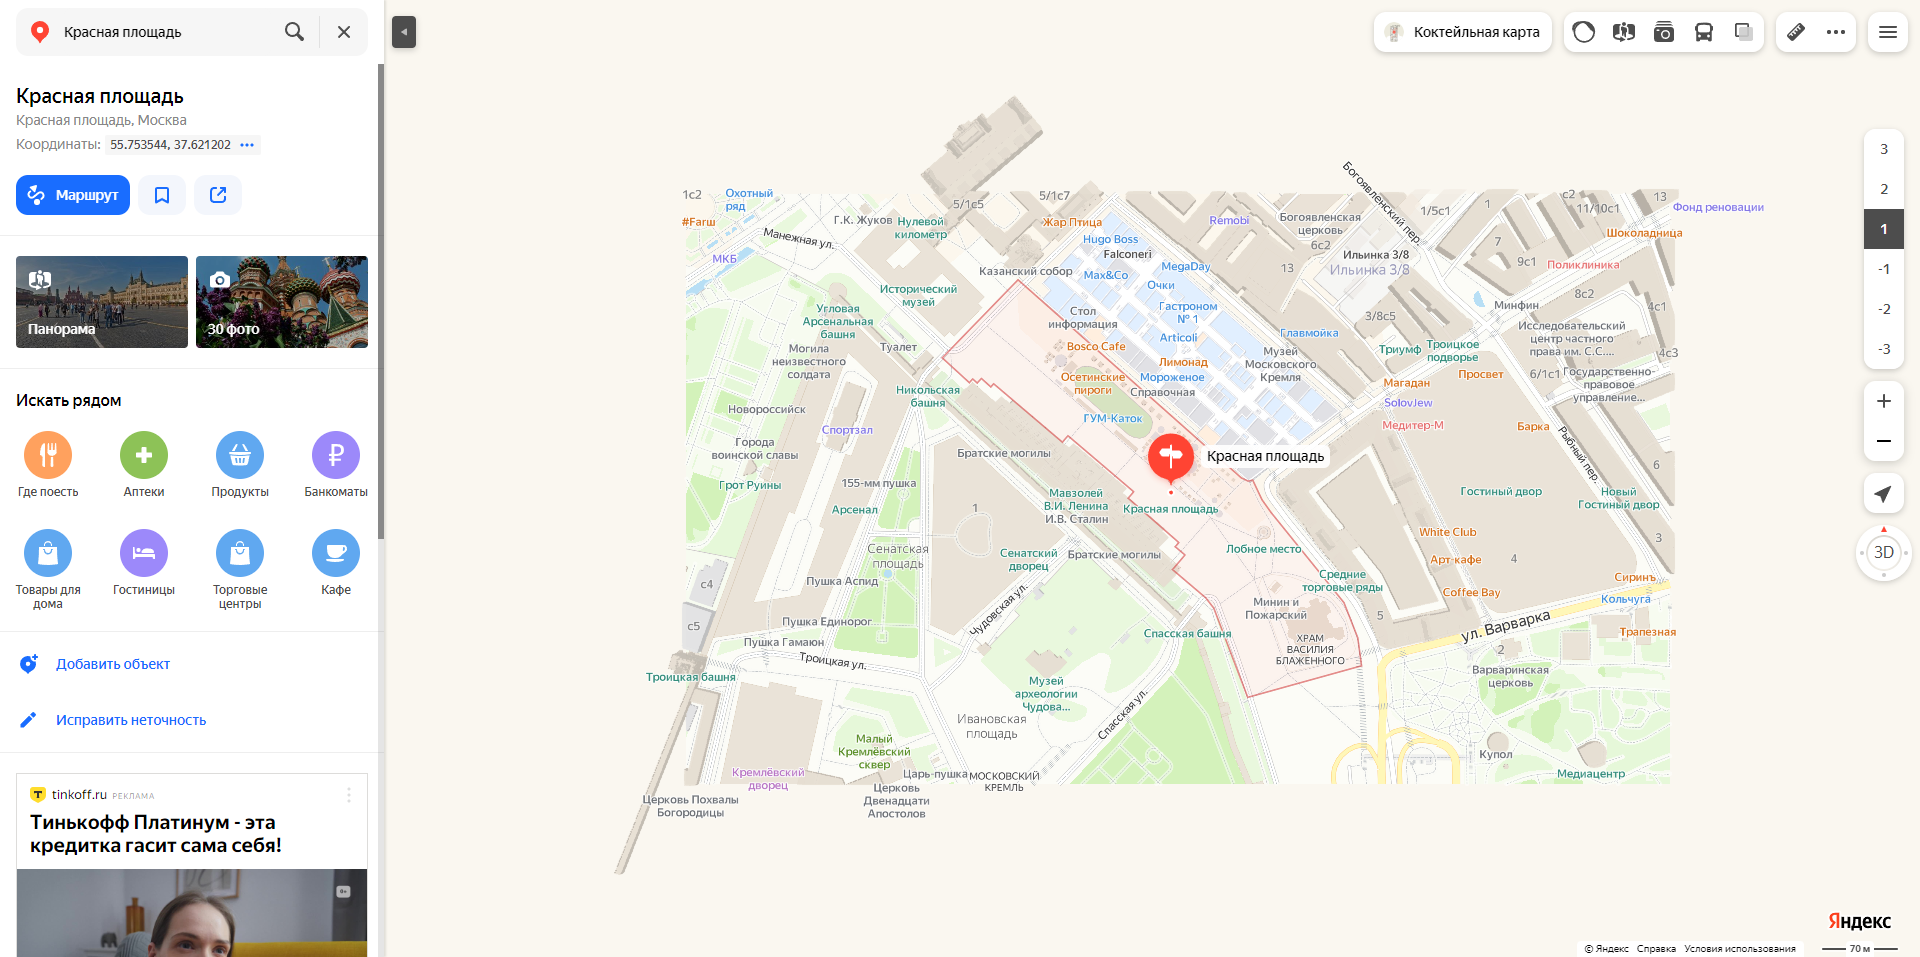
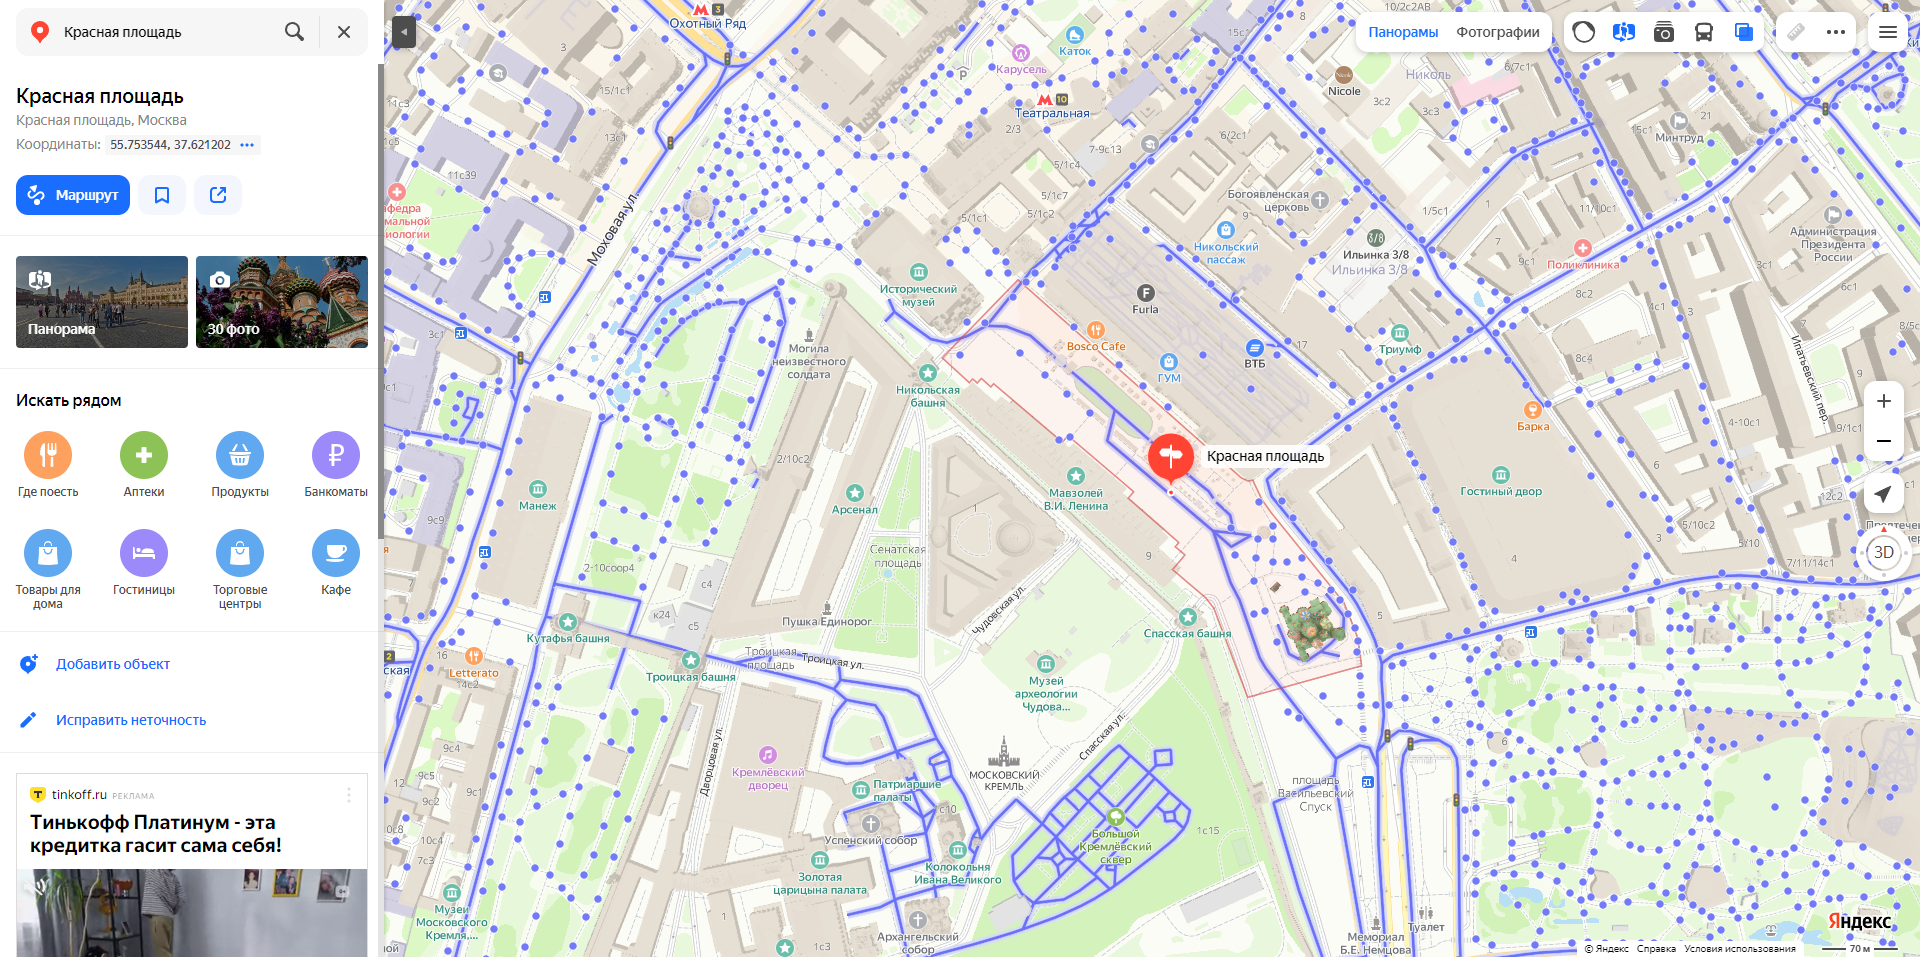
Updated files

diff --git a/tests/map_page_positive.py b/tests/map_page_positive.py
@@ -537,7 +537,7 @@ class TestMapPagePositive:
                           attachment_type=allure.attachment_type.PNG)
         with allure.step("Шаг 4: На открывшейся панораме улицы зажать левую кнопку мыши и выполнить вращение по "
                          "часовой стрелке до исходной точки вращения."):
-            page.check_panoramas_views_on_map(driver)
+            page.rotate_street_panorama_view(driver)
             page.wait_page_loaded()
         with allure.step("Шаг 5: Выполнить проверку результата теста."):
             if True:
@@ -552,12 +552,13 @@ class TestMapPagePositive:
                 print(Style.DIM + Fore.GREEN + f"\n Тест test_street_panorama_btn_click выполнен успешно!")
             else:
                 allure.attach(page.get_page_screenshot_PNG(),
-                              name="city_trans_btn_click_FAILED",
+                              name="street_panorama_btn_click_FAILED",
                               attachment_type=allure.attachment_type.PNG)
+                page.panorama_view_close(driver)
+                page.panorama_streets_btn_click(driver)
                 page.clear_searching_field(driver)
-                page.switch_off_3D_map_mode(driver)
-                raise Exception(Style.DIM + Fore.RED + f"\nОшибка! Иконки общественного транспорта на карте не "
-                                                       f"отображаются, контроллер кнопки 'Движущийся транспорт' не "
-                                                       f"активен/не работает.\nОтразить ошибку в системе и создать "
-                                                       f"баг-репорт!")
+                page.wait_page_loaded()
+                raise Exception(Style.DIM + Fore.RED + f"\nОшибка! Панорама улицы не отображается, элемент (кнопка) "
+                                                       f"'Панорамы улиц и фотографии' не активен/не работает.\nОтразить "
+                                                       f"ошибку в системе и создать баг-репорт!")
 

diff --git a/pages/main_page.py b/pages/main_page.py
@@ -240,7 +240,16 @@ class MainPage(BasePage):
         panorama_btn.click()
 
     @staticmethod
-    def check_panoramas_views_on_map(driver):
+    def choose_panorama_random_view(driver):
+        """Перемещает курсор мыши в центральную область экрана и осуществляет нажатие левой кнопкой мыши для перехода в
+        режим отображения статической панорамы улицы. ВАЖНО: Данный метод необходимо использовать только в
+        активированном режиме 'Панорамы улиц и фотографии'."""
+
+
+
+
+    @staticmethod
+    def rotate_street_panorama_view(driver):
         """Метод для проверки работы функции отображения панорамы улицы по выбраной на карте точке. Вращает статическое
         изображение уличной панорамы вокруг наблюдателя на 360 град. Метод необходим для валидации тест-кейса
         test_street_panorama_btn_click."""
